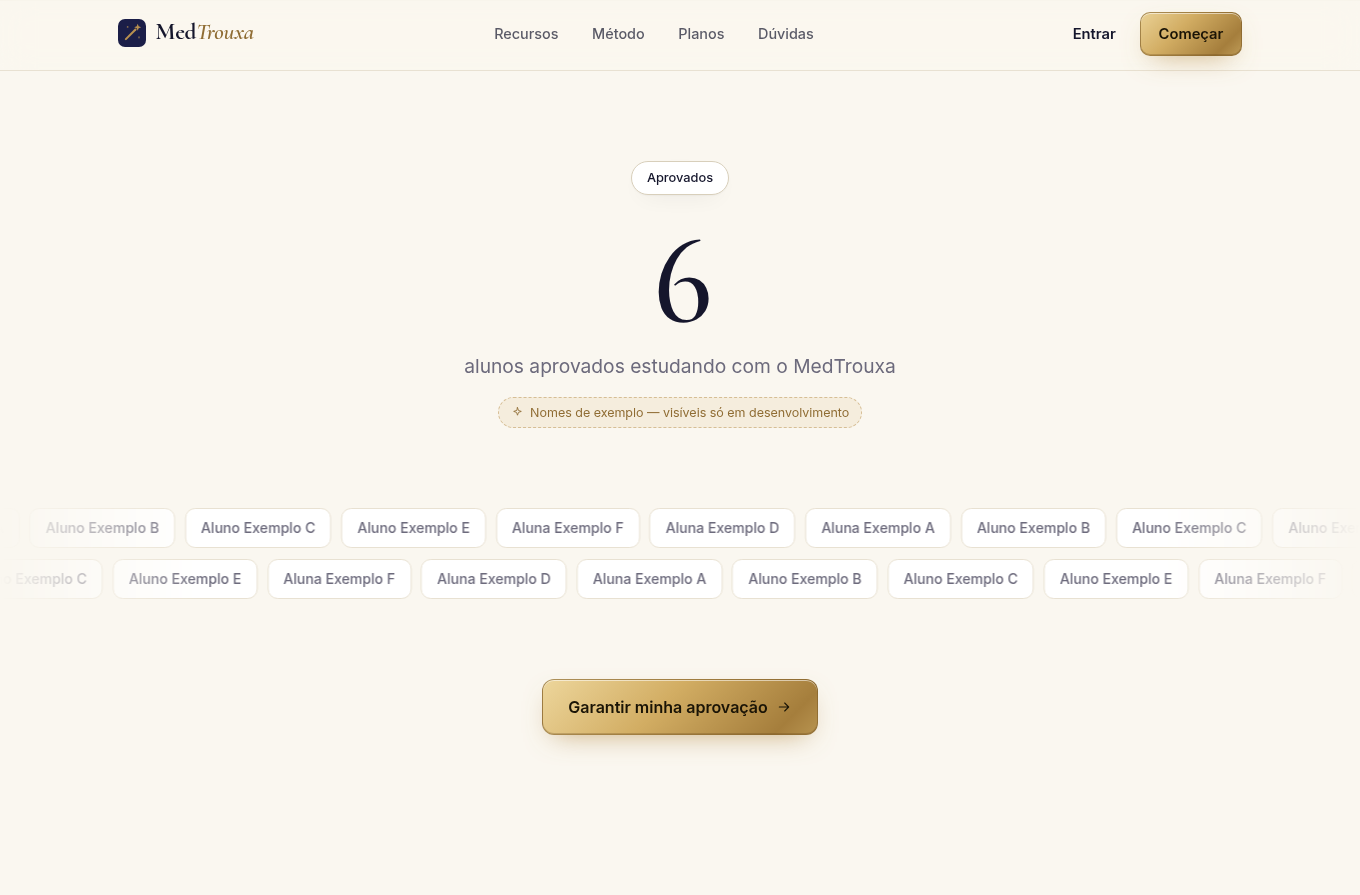
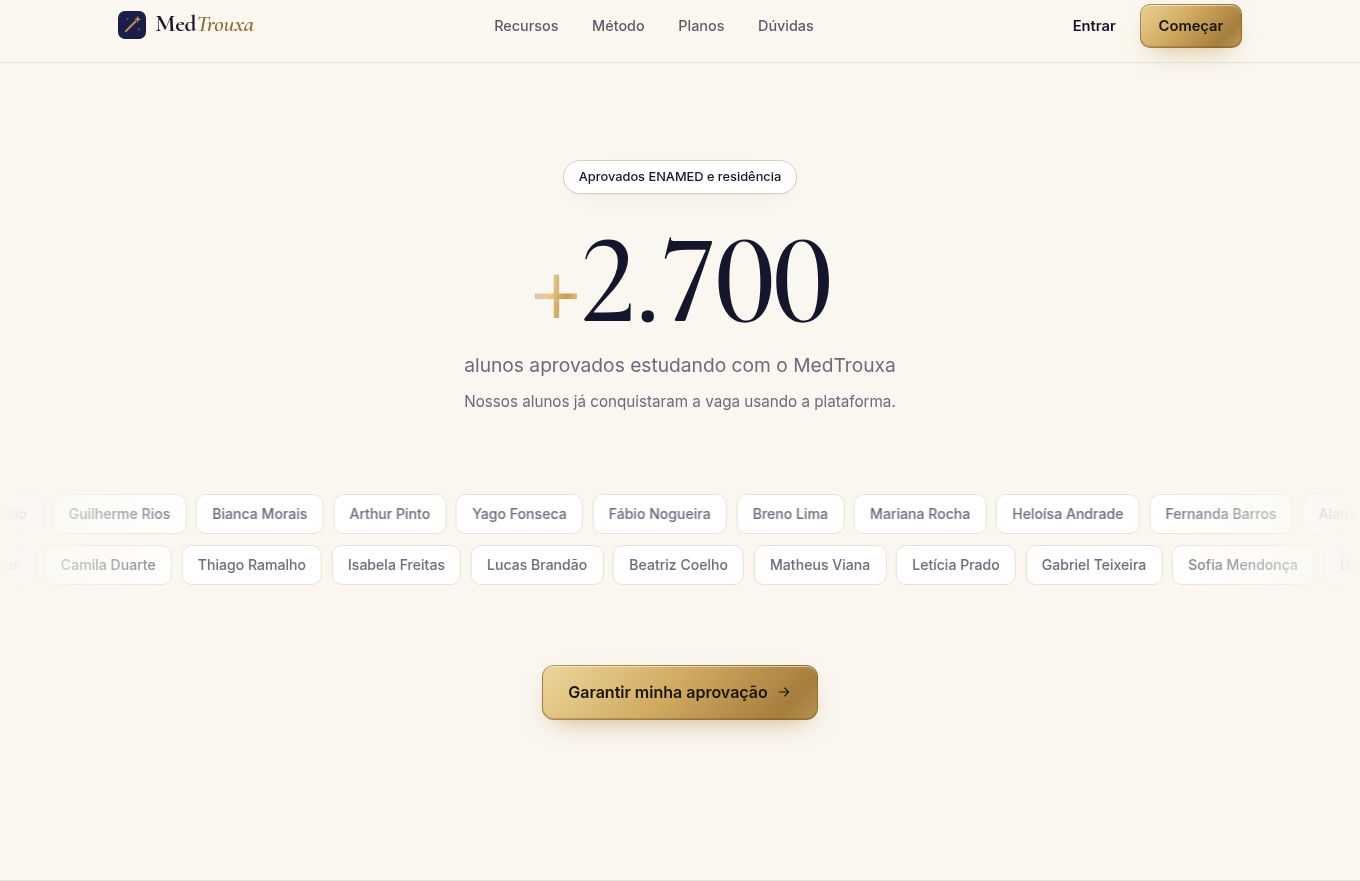
feat: modo de teste da landing com números, aprovados e depoimentos fictícios; vídeos em carrossel
- Números, aprovados (+2.700) e nomes fictícios para teste, desligados automaticamente em produção
- Depoimentos de teste realistas (texto e vídeo), sem selo de exemplo
- Depoimentos em vídeo em carrossel contínuo animado, com duração, brilho e pausa ao passar o mouse
- Selo 'Escolhido por +N mil estudantes' no hero quando houver base de estudantes
- Cache da prova social limpo no boot

Claude-Session: https://claude.ai/code/session_01RWgNc6Mk4V7FcjmBRBZrFy

diff --git a/backend/src/database/demo.ts b/backend/src/database/demo.ts
@@ -3,32 +3,59 @@ import { DataSource } from 'typeorm';
 import { Testimonial } from './entities';
 
 /**
- * Conteúdo de DEMONSTRAÇÃO para visualizar a prova social da landing em desenvolvimento.
- * Pessoas fictícias, marcadas com isDemo=true e exibidas com o selo "Exemplo".
- * Nunca roda com NODE_ENV=production, e a API também as esconde em produção.
- * Substitua por depoimentos reais (com autorização de uso de imagem) via POST /api/public/testimonials.
+ * DADOS DE TESTE da landing (números, aprovados e depoimentos fictícios).
+ * Só ficam ativos com DEMO_CONTENT=true e fora de produção (NODE_ENV !== 'production').
+ * Em produção, a API ignora tudo isto e mostra apenas dados reais.
  */
+export const demoEnabled = () => process.env.DEMO_CONTENT === 'true' && process.env.NODE_ENV !== 'production';
+
+export const DEMO_STATS = { questions: 48_000, flashcards: 320_000, answers: 2_400_000, students: 21_000, approved: 2_700 };
+
+export const DEMO_APPROVED_NAMES = [
+  'Lara Campos', 'Cleiton Siqueira', 'Emmily Carvalho', 'Guilherme Rios', 'Bianca Morais', 'Arthur Pinto', 'Yago Fonseca',
+  'Fábio Nogueira', 'Breno Lima', 'Mariana Rocha', 'Heloísa Andrade', 'Fernanda Barros', 'Alane Soares', 'Ana Bispo',
+  'Amanda Zamoner', 'Rafael Tavares', 'Júlia Menezes', 'Pedro Aguiar', 'Camila Duarte', 'Thiago Ramalho', 'Isabela Freitas',
+  'Lucas Brandão', 'Beatriz Coelho', 'Matheus Viana', 'Letícia Prado', 'Gabriel Teixeira', 'Sofia Mendonça', 'Diego Paiva',
+  'Larissa Queiroz', 'Vinícius Moura', 'Natália Fontes', 'Henrique Salles', 'Carolina Pires', 'Eduardo Lacerda', 'Marina Assis',
+  'Rodrigo Bastos', 'Paula Cunha', 'Felipe Arruda', 'Juliana Macedo', 'Otávio Rezende',
+];
+
+const SAMPLE_VIDEO = 'https://interactive-examples.mdn.mozilla.net/media/cc0-videos/flower.mp4';
+
 const DEMO: Partial<Testimonial>[] = [
-  { name: 'Aluna Exemplo A', school: 'Faculdade de Medicina (exemplo)', featured: true, specialty: 'Dermatologia', institutions: 'Instituição X e Y',
-    quote: 'Resolver questões todos os dias virou hábito. Os comentários e os flashcards fizeram o conteúdo finalmente ficar.' },
-  { name: 'Aluno Exemplo B', school: 'Universidade Federal (exemplo)', featured: true, specialty: 'Oftalmologia', institutions: 'Instituição Z',
-    quote: 'Foi minha porta de entrada para o estudo por questões, e usei o método até o fim da preparação.' },
-  { name: 'Aluno Exemplo C', school: 'Universidade Estadual (exemplo)', featured: true, specialty: 'Clínica Médica', institutions: 'Instituição W',
-    quote: 'A Coruja explica exatamente o ponto que eu não tinha entendido. Parece ter um professor do lado.' },
-  { name: 'Aluna Exemplo D', school: 'Centro Universitário (exemplo)', highlight: 'Resultado de exemplo no ENAMED',
-    quote: 'O cronograma tirou o peso de decidir o que estudar. Eu só abria e seguia o dia.' },
-  { name: 'Aluno Exemplo E', school: 'Faculdade de Medicina (exemplo)', specialty: 'Pediatria',
+  { name: 'Daniela Almeida Brito', school: 'UFTM', featured: true, specialty: 'Dermatologia', institutions: 'IAMSPE, SES-GO e PSU',
+    quote: 'O MedTrouxa me ensinou a ter prática e constância na resolução de questões, que foi a parte mais importante da minha preparação.' },
+  { name: 'Glauco Stefan Vicenzi', school: 'UFPR', featured: true, specialty: 'Oftalmologia', institutions: 'IAMSPE',
+    quote: 'Foi minha introdução ao método de estudo por questões, que usei até o final da preparação.' },
+  { name: 'Júlio Melo Cordeiro', school: 'UNIFESP', featured: true, specialty: 'Oftalmologia', institutions: 'USP e UNIFESP',
+    quote: 'A Coruja explicava exatamente o ponto que eu não tinha entendido. Era como ter um professor do lado o tempo todo.' },
+  { name: 'Stevan Schulter Patel', school: 'UFSC', specialty: 'Oftalmologia', institutions: 'SUS-SP, HGCR, HRSJ e HOB',
+    quote: 'Com o estudo ativo eu consegui fixar o conteúdo das aulas e criar o hábito de praticar questões e flashcards todos os dias.' },
+  { name: 'Caio Bittencourt', school: 'UNIVALI', highlight: '93 pontos no ENAMED',
+    quote: 'Consegui 93 pontos estudando com a plataforma. O cronograma me deu o mapa; eu só precisei seguir.' },
+  { name: 'Débora Esteves Carvalho', school: 'UFMG', specialty: 'Ginecologia e Obstetrícia', institutions: 'Albert Einstein',
+    quote: 'Usei durante a faculdade e foi meu primeiro contato com resolução de questões comentadas. Mudou minha forma de estudar.' },
+  { name: 'Gabriela da Silva Nunes', school: 'UFBA', specialty: 'Neurologia', institutions: 'HMSJ e HCPA',
     quote: 'Os simulados cronometrados me deram ritmo de prova. Cheguei no dia sem ansiedade com o tempo.' },
-  { name: 'Aluna Exemplo F', school: 'Universidade Federal (exemplo)', specialty: 'Ginecologia e Obstetrícia',
-    quote: 'Ver o aproveitamento por área mostrou onde eu precisava insistir. Foi o que virou o jogo.' },
-  { name: 'Aluno Exemplo G', school: 'Universidade Estadual (exemplo)', approved: false,
-    quote: 'Uso desde o ciclo básico. Revisar pelos flashcards antes das provas da faculdade mudou minhas notas.' },
+  { name: 'Renan Kaufmann', school: 'UFRGS', specialty: 'Cirurgia Geral', institutions: 'HCPA',
+    quote: 'Ver meu aproveitamento por área mostrou onde eu precisava insistir. Foi o que virou o jogo.' },
+  { name: 'Danielle Brito', school: 'UFTM', videoUrl: SAMPLE_VIDEO, approved: false,
+    quote: 'Aprendi a ter prática e constância na resolução de questões, que foi a parte mais importante da minha preparação.' },
+  { name: 'Leôncio Castro', school: 'Universidade Federal do Oeste da Bahia', videoUrl: SAMPLE_VIDEO, approved: false,
+    quote: 'Sabe quando alguém te pergunta o que é mais importante naquele assunto? É isso que a plataforma faz todo dia.' },
+  { name: 'Murilo Figueiredo', school: 'UNIVALI', videoUrl: SAMPLE_VIDEO, approved: false,
+    quote: 'Parei de ficar frustrado e comecei a lembrar mais do conteúdo entre os semestres. Caiu como uma luva.' },
+  { name: 'Lívia Lara Guedes', school: 'UNIFAS/UNIME', videoUrl: SAMPLE_VIDEO, approved: false,
+    quote: 'Com o acompanhamento de desempenho eu sei exatamente os pontos em que preciso me dedicar mais.' },
+  { name: 'Otávio Rezende', school: 'UERJ', videoUrl: SAMPLE_VIDEO, approved: false,
+    quote: 'Os flashcards com revisão espaçada salvaram meu internato. Revisar virou rotina de 15 minutos.' },
 ];
 
 export async function seedDemoContent(app: INestApplicationContext) {
-  if (process.env.NODE_ENV === 'production' || process.env.DEMO_CONTENT !== 'true') return;
+  if (!demoEnabled()) return;
   const repo = app.get(DataSource).getRepository(Testimonial);
-  if (await repo.existsBy({ isDemo: true })) return;
+  // Recria o conjunto de teste para refletir sempre a versão atual deste arquivo
+  await repo.delete({ isDemo: true });
   await repo.save(DEMO.map((d) => repo.create({ ...d, isDemo: true, published: true, rating: 5 })));
-  new Logger('Seed').log(`Conteúdo de demonstração criado (${DEMO.length} depoimentos de exemplo)`);
+  new Logger('Seed').log(`Dados de teste da landing ativos (${DEMO.length} depoimentos, números fictícios)`);
 }

diff --git a/frontend/src/components/SocialProof.tsx b/frontend/src/components/SocialProof.tsx
@@ -7,7 +7,7 @@ export interface Testimonial {
   id: number; name: string; school?: string; quote: string; specialty?: string; institutions?: string; highlight?: string;
   rating: number; photoUrl?: string; videoUrl?: string; featured: boolean; approved: boolean; isDemo: boolean;
 }
-interface Stats { questions: number; flashcards: number; students: number; answers: number }
+export interface Stats { questions: number; flashcards: number; students: number; answers: number; approved: number; approvedNames: string[] }
 
 export function useSocial() {
   const [stats, setStats] = useState<Stats | null>(null);
@@ -101,12 +101,10 @@ function Avatar({ t, size = 44 }: { t: Testimonial; size?: number }) {
     : <span className="t-avatar initials" style={{ width: size, height: size }}>{initials}</span>;
 }
 
-const DemoTag = () => <span className="demo-tag" title="Conteúdo de exemplo, visível apenas em desenvolvimento">Exemplo</span>;
-
 function TestimonialCard({ t, big = false }: { t: Testimonial; big?: boolean }) {
   return (
     <figure className={`t-card ${big ? 'big' : ''}`}>
-      <div className="t-top"><Stars5 n={t.rating} />{t.isDemo && <DemoTag />}</div>
+      <div className="t-top"><Stars5 n={t.rating} /></div>
       <blockquote>“{t.quote}”</blockquote>
       {big && (t.specialty || t.institutions) && (
         <div className="t-tags">{t.specialty && <span className="pill gold">{t.specialty}</span>}{t.institutions && <span className="pill">{t.institutions}</span>}</div>
@@ -127,7 +125,8 @@ function VideoCard({ t, onPlay }: { t: Testimonial; onPlay(): void }) {
   return (
     <article className="v-card">
       <button className="v-thumb" onClick={onPlay} aria-label={`Assistir depoimento de ${t.name}`}>
-        {t.photoUrl ? <img src={t.photoUrl} alt="" loading="lazy" /> : <span className="v-ph"><Avatar t={t} size={64} /></span>}
+        {t.photoUrl ? <img src={t.photoUrl} alt="" loading="lazy" /> : <span className={`v-ph hue${t.id % 4}`}><Avatar t={t} size={58} /></span>}
+        <span className="v-dur">1:{String(10 + (t.id * 7) % 50).padStart(2, '0')}</span>
         <span className="v-play"><svg viewBox="0 0 24 24" width="22" height="22" aria-hidden="true"><path d="M8 5.5v13l11-6.5z" fill="currentColor" /></svg></span>
       </button>
       <h4>{t.name}{t.school && <>, <span>{t.school}</span></>}</h4>
@@ -136,22 +135,21 @@ function VideoCard({ t, onPlay }: { t: Testimonial; onPlay(): void }) {
   );
 }
 
-export function Approvals({ items }: { items: Testimonial[] }) {
-  const approved = items.filter((t) => t.approved);
-  if (!approved.length) return null;
-  const names = approved.map((t) => t.name);
+export function Approvals({ stats }: { stats: Stats | null }) {
+  if (!stats || !stats.approved || !stats.approvedNames.length) return null;
+  const names = stats.approvedNames;
   const row = (offset: number) => {
     const base = [...names.slice(offset), ...names.slice(0, offset)];
-    const filled = Array.from({ length: Math.max(12, base.length) }, (_, i) => base[i % base.length]);
+    const filled = Array.from({ length: Math.max(16, base.length) }, (_, i) => base[i % base.length]);
     return [...filled, ...filled];
   };
   return (
     <section className="lp-section approvals">
       <div className="lp-wrap center">
-        <span className="chip" data-reveal>Aprovados</span>
-        <div className="big-count" data-reveal><i>{approved.length >= 100 ? '+' : ''}</i><CountUp to={approved.length} /></div>
-        <p className="big-count-label" data-reveal>{approved.length === 1 ? 'aluno aprovado' : 'alunos aprovados'} estudando com o MedTrouxa</p>
-        {approved.some((t) => t.isDemo) && <p className="demo-note"><Icon name="spark" size={13} /> Nomes de exemplo — visíveis só em desenvolvimento</p>}
+        <span className="chip" data-reveal>Aprovados ENAMED e residência</span>
+        <div className="big-count" data-reveal><i>{stats.approved >= 100 ? '+' : ''}</i><CountUp to={stats.approved} /></div>
+        <p className="big-count-label" data-reveal>{stats.approved === 1 ? 'aluno aprovado' : 'alunos aprovados'} estudando com o MedTrouxa</p>
+        <p className="big-count-sub" data-reveal>Nossos alunos já conquistaram a vaga usando a plataforma.</p>
       </div>
       <div className="names" aria-label="Alunos aprovados">
         {[0, Math.floor(names.length / 2)].map((off, r) => (
@@ -168,9 +166,10 @@ export function Approvals({ items }: { items: Testimonial[] }) {
 export function Testimonials({ items }: { items: Testimonial[] }) {
   const [playing, setPlaying] = useState<Testimonial | null>(null);
   if (!items.length) return null;
-  const featured = items.filter((t) => t.featured).slice(0, 3);
-  const rest = items.filter((t) => !featured.includes(t));
+  const featured = items.filter((t) => t.featured && !t.videoUrl).slice(0, 3);
+  const rest = items.filter((t) => !featured.includes(t) && !t.videoUrl);
   const videos = items.filter((t) => t.videoUrl);
+  const videoLoop = videos.length ? Array.from({ length: Math.max(2, Math.ceil(8 / videos.length)) * 2 }, () => videos).flat() : [];
   const loop = rest.length ? [...rest, ...rest] : [];
 
   return (
@@ -191,10 +190,15 @@ export function Testimonials({ items }: { items: Testimonial[] }) {
         </div>
       )}
       {videos.length > 0 && (
-        <div className="lp-wrap">
-          <h3 className="v-title" data-reveal>Depoimentos em vídeo</h3>
-          <div className="v-row">{videos.map((t) => <VideoCard key={t.id} t={t} onPlay={() => setPlaying(t)} />)}</div>
-        </div>
+        <>
+          <div className="lp-wrap center v-head" data-reveal>
+            <span className="chip">Depoimentos em vídeo</span>
+            <h3 className="v-title">O que nossos alunos <em>dizem</em></h3>
+          </div>
+          <div className="t-marquee v-marquee" aria-label="Depoimentos em vídeo">
+            <div className="t-track v-track">{videoLoop.map((t, i) => <VideoCard key={`${t.id}-${i}`} t={t} onPlay={() => setPlaying(t)} />)}</div>
+          </div>
+        </>
       )}
       <div className="center t-cta"><Link to="/login?mode=register" className="btn btn-dark btn-lg">Comece sua jornada <Icon name="arrow" size={16} /></Link></div>
 

diff --git a/frontend/src/styles.css b/frontend/src/styles.css
@@ -787,3 +787,30 @@ button.primary { box-shadow: inset 0 1px 0 rgba(255, 255, 255, .12); }
   .footer-bottom { flex-direction: column; }
   .footer-bottom small { order: 3; }
 }
+
+/* Prova social — ajustes do modo de teste e carrossel de vídeo */
+.big-count-sub { margin: .6rem 0 0; color: var(--muted); font-size: .95rem; }
+.face-stack { display: inline-flex; margin-right: .2rem; }
+.face-stack i { width: 22px; height: 22px; border-radius: 50%; display: grid; place-items: center; font-style: normal; font-size: .55rem; font-weight: 700; color: #1a1406; background: var(--foil); border: 1.5px solid #07081a; margin-left: -6px; }
+.face-stack i:first-child { margin-left: 0; }
+.v-head { margin-top: 5rem; }
+.v-title { font-size: clamp(1.9rem, 3.6vw, 2.6rem); font-weight: 500; margin: 1rem 0 2rem; letter-spacing: -.02em; }
+.v-title em { font-style: italic; color: var(--gold-text); font-weight: 500; }
+.v-track { animation-duration: 80s; animation-direction: reverse; }
+.v-track .v-card { width: 300px; flex-shrink: 0; }
+.v-card { transition: transform .35s cubic-bezier(.2, .7, .2, 1); }
+.v-card:hover { transform: translateY(-4px); }
+.v-thumb { box-shadow: var(--shadow); }
+.v-thumb:hover .v-play { transform: translate(-50%, -50%) scale(1.1); }
+.v-play { transition: transform .25s; }
+.v-dur { position: absolute; right: .6rem; bottom: .6rem; font-size: .7rem; font-weight: 600; color: #fff; background: rgba(0, 0, 0, .55); padding: .15rem .45rem; border-radius: 6px; font-variant-numeric: tabular-nums; }
+.v-ph { position: relative; overflow: hidden; }
+.v-ph::after { content: ''; position: absolute; inset: 0; background: linear-gradient(110deg, transparent 30%, rgba(255, 255, 255, .08) 50%, transparent 70%); background-size: 250% 100%; animation: shimmer 3.5s ease-in-out infinite; }
+@keyframes shimmer { from { background-position: 120% 0; } to { background-position: -120% 0; } }
+.v-ph .t-avatar { position: absolute; left: 50%; top: 50%; transform: translate(-50%, -50%); opacity: .35; filter: blur(.3px); }
+.v-ph.hue0 { background: radial-gradient(circle at 30% 30%, #3b3f93, #0e1030); }
+.v-ph.hue1 { background: radial-gradient(circle at 70% 30%, #5a3f7e, #120d2a); }
+.v-ph.hue2 { background: radial-gradient(circle at 40% 70%, #2d4f7a, #0b1427); }
+.v-ph.hue3 { background: radial-gradient(circle at 60% 40%, #6b5328, #1a1308); }
+.v-card h4 { margin-top: 1rem; }
+.v-card p { display: -webkit-box; -webkit-line-clamp: 3; -webkit-box-orient: vertical; overflow: hidden; }

diff --git a/backend/src/social/social.module.ts b/backend/src/social/social.module.ts
@@ -4,6 +4,7 @@ import { PartialType } from '@nestjs/mapped-types';
 import { IsBoolean, IsInt, IsOptional, IsString, IsUrl, Max, MaxLength, Min } from 'class-validator';
 import { DataSource, Repository } from 'typeorm';
 import { AdminOnly, Public } from '../common/auth';
+import { DEMO_APPROVED_NAMES, DEMO_STATS, demoEnabled } from '../database/demo';
 import { Testimonial } from '../database/entities';
 import { RedisService } from '../redis/redis.module';
 
@@ -33,23 +34,25 @@ class SocialController {
     private redis: RedisService,
   ) {}
 
-  /** Números reais da plataforma, para a prova social da landing */
+  /** Números da plataforma para a prova social (reais; fictícios apenas no modo de teste) */
   @Public() @Get('stats')
   stats() {
     return this.redis.cached('public:stats', 600, async () => {
+      if (demoEnabled()) return { ...DEMO_STATS, approvedNames: DEMO_APPROVED_NAMES };
       const [r] = await this.db.query(`SELECT
         (SELECT count(*) FROM questions)::int AS questions,
         (SELECT count(*) FROM flashcards)::int AS flashcards,
         (SELECT count(*) FROM users WHERE role = 'student')::int AS students,
         (SELECT count(*) FROM answers)::int AS answers`);
-      return r as { questions: number; flashcards: number; students: number; answers: number };
+      const approved = await this.testimonials.find({ where: { approved: true, published: true, isDemo: false }, select: ['name'] });
+      return { ...r, approved: approved.length, approvedNames: approved.map((a) => a.name) };
     });
   }
 
   @Public() @Get('testimonials')
   list() {
     return this.redis.cached('public:testimonials', 600, () => {
-      const where = process.env.NODE_ENV === 'production' ? { published: true, isDemo: false } : { published: true };
+      const where = demoEnabled() ? { published: true } : { published: true, isDemo: false };
       return this.testimonials.find({ where, order: { featured: 'DESC', createdAt: 'DESC' } });
     });
   }

diff --git a/frontend/src/pages/Landing.tsx b/frontend/src/pages/Landing.tsx
@@ -120,7 +120,14 @@ export default function Landing() {
         <Stars />
         <div className="grain" aria-hidden="true" />
         <div className="lp-wrap hero-in">
-          <span className="eyebrow"><Icon name="spark" size={13} /> Medicina, com um toque de magia</span>
+          {stats && stats.students >= 1000 ? (
+            <span className="eyebrow">
+              <span className="face-stack" aria-hidden="true">{['LC', 'GR', 'BM'].map((f) => <i key={f}>{f}</i>)}</span>
+              Escolhido por +{Math.floor(stats.students / 1000)} mil estudantes de medicina
+            </span>
+          ) : (
+            <span className="eyebrow"><Icon name="spark" size={13} /> Medicina, com um toque de magia</span>
+          )}
           <h1>Estude medicina como quem <em>domina um feitiço</em>.</h1>
           <p className="lede">Questões comentadas, flashcards com repetição espaçada, simulados e uma tutora com IA. Da faculdade ao ENAMED e à residência, em um só lugar.</p>
           <div className="hero-cta">
@@ -251,7 +258,7 @@ export default function Landing() {
         </div>
       </section>
 
-      <Approvals items={items} />
+      <Approvals stats={stats} />
       <Testimonials items={items} />
 
       <section id="planos" className="lp-section pricing-section">

diff --git a/backend/src/main.ts b/backend/src/main.ts
@@ -4,6 +4,7 @@ import { NestFactory } from '@nestjs/core';
 import { AppModule } from './app.module';
 import { seedDemoContent } from './database/demo';
 import { seedIfEmpty } from './database/seed';
+import { RedisService } from './redis/redis.module';
 
 async function bootstrap() {
   const app = await NestFactory.create(AppModule);
@@ -13,6 +14,7 @@ async function bootstrap() {
   app.enableShutdownHooks();
   await seedIfEmpty(app);
   await seedDemoContent(app);
+  await app.get(RedisService).invalidate('public:stats', 'public:testimonials');
   await app.listen(Number(process.env.PORT ?? 3000));
 }
 bootstrap();

diff --git a/README.md b/README.md
@@ -41,8 +41,10 @@ gateway (Pagar.me, Mercado Pago, Stripe) em `BillingService.checkout`.
   especialidade, instituições, destaque (ex.: "93 pontos no ENAMED"), nota, foto, vídeo, `featured` (cards grandes)
   e `approved` (entra no mural de aprovados). As seções somem sozinhas enquanto não houver registros.
   Só publique depoimentos reais, com autorização de uso de nome e imagem.
-- **Exemplos para desenvolvimento**: com `DEMO_CONTENT=true` (padrão do compose) são criados depoimentos de pessoas
-  fictícias, exibidos com o selo "Exemplo". Com `NODE_ENV=production` eles não são criados nem retornados pela API.
+- **Modo de teste** (`DEMO_CONTENT=true`, padrão do compose): a landing mostra números fictícios (+48 mil questões,
+  +2.700 aprovados, +21 mil estudantes…), nomes de aprovados e depoimentos em texto e vídeo gerados para teste,
+  tudo em `backend/src/database/demo.ts`. **Com `NODE_ENV=production` o modo de teste é desligado
+  automaticamente** e a landing passa a mostrar só números e depoimentos reais cadastrados.
 
 ### Rodapé
 
